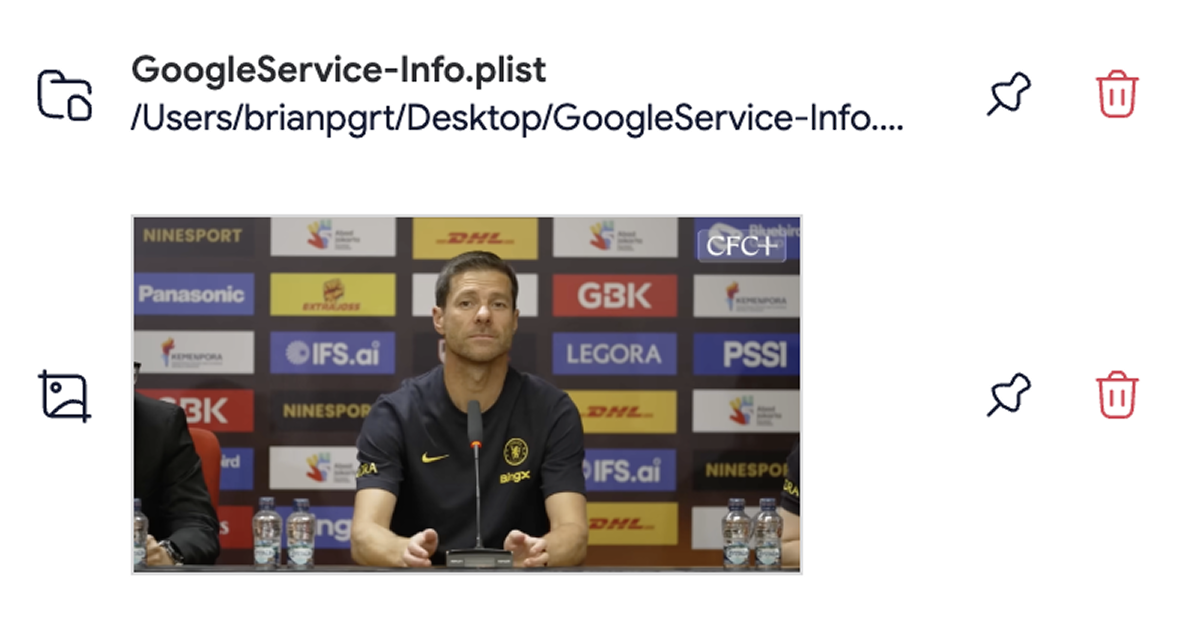
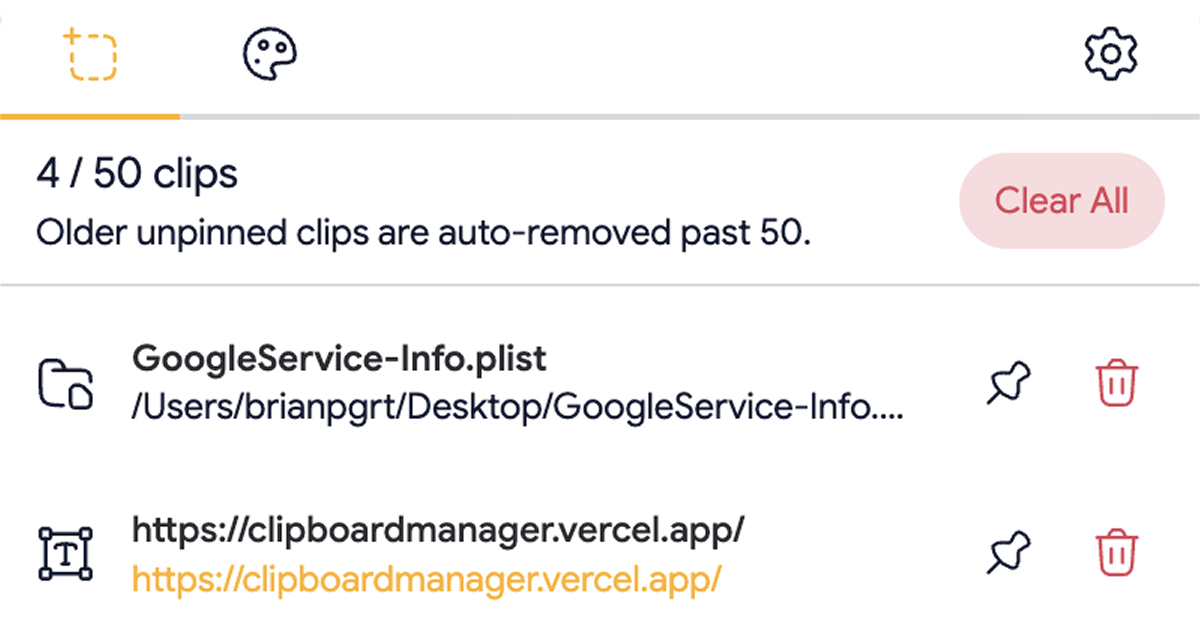
feat: og

diff --git a/lib/config.ts b/lib/config.ts
@@ -1,4 +1,4 @@
-export const SITE_URL = "https://clipstack.vercel.app";
+export const SITE_URL = "https://clipboardmanager.vercel.app";
 
 export const APP_NAME = "ClipStack";
 
